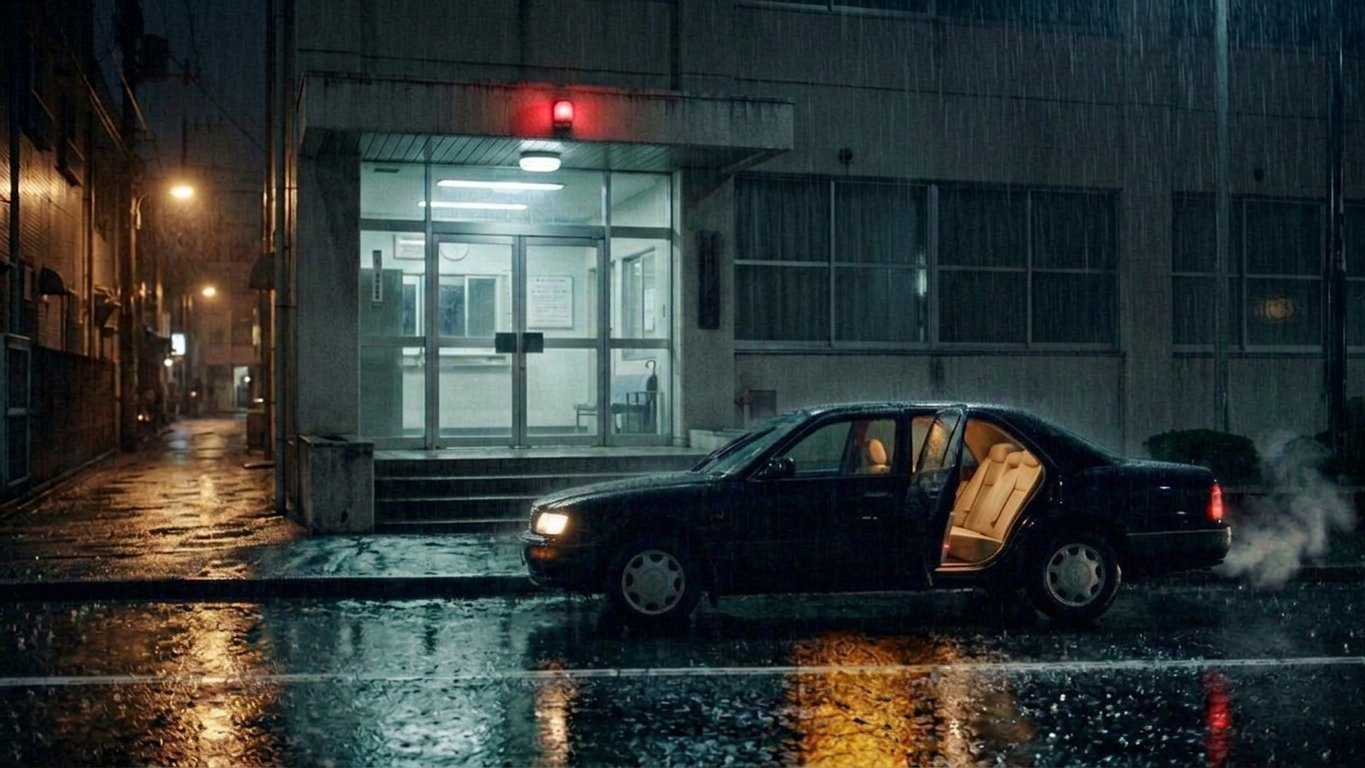
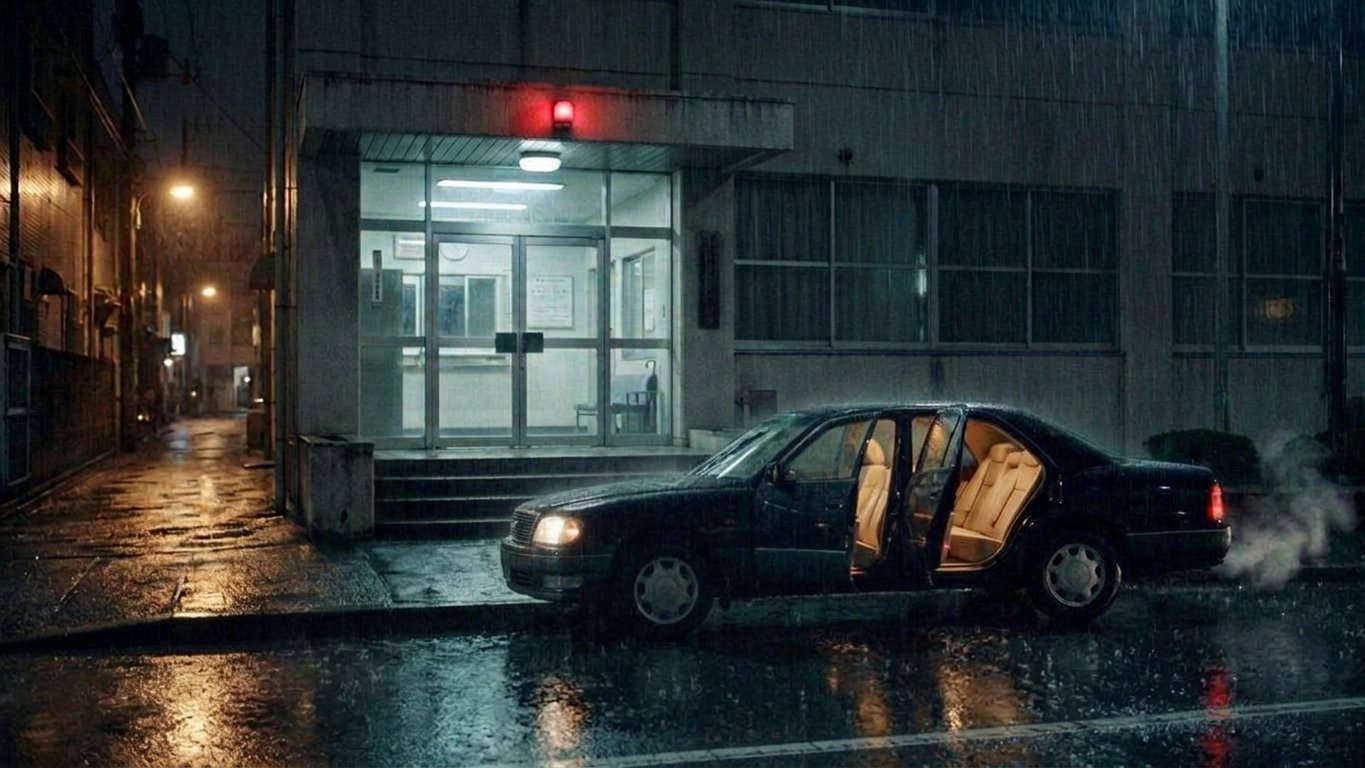
Car in scenes 93-94: one master sedan (138) redrawn into 137, 139, 140

Changed region(s): [[0.0, 0.5312, 1.0, 1.0]]

diff --git a/docs/handoff-2026-10-13-film-notes.md b/docs/handoff-2026-10-13-film-notes.md
@@ -15,7 +15,8 @@ Please double-check this work before calling it done. Most of it was done in one
 
 - Kurose is in the right-hand rear seat in every interior picture (141, 368). Ishida gets in on the left (368 shows him climbing in).
 - `s94/139-only-tea.jpg` was redone to match the sedan in `s93/138`.
-- The "car still wrong" note is closed, but check the car in 137 and 140 in the preview.
+- Car model: 138 is the master car. 137, 139 and 140 were regenerated from it so the same sedan appears in all four. Check the preview: the interior (141, 368) may still be a different seat style from the exterior.
+- 142 (taillights) shows the street, not the car.
 
 ## Done in the latest round
 
